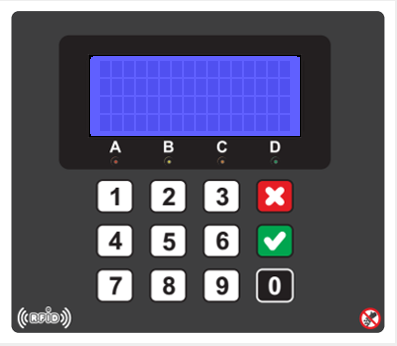
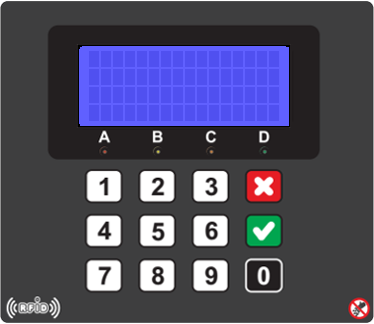
incluindo botões
Só HTML e CSS até o momento

diff --git a/index.html b/index.html
@@ -1,0 +1,26 @@
+<!DOCTYPE html>
+<html lang="pt-br">
+
+<head>
+  <meta charset="UTF-8">
+  <meta http-equiv="X-UA-Compatible" content="IE=edge">
+  <meta name="viewport" content="width=device-width, initial-scale=1.0">
+  <link rel="stylesheet" href="style.css">
+  <title>Simulador Checklist</title>
+</head>
+
+<body>
+  <div class="section-1">
+    <div class="PO"></div>
+    <hr>
+    <div class="preenchimento">
+      <label for="">Texto:</label>
+      <textarea name="texto" id="pergunta" cols="16" rows="4" maxlength="48" required></textarea>
+      <label for="bloqueia">Bloqueia ?</label>
+      <input type="checkbox">
+    </div>
+  </div>
+  <div class="checklist"></div>
+</body>
+
+</html>

diff --git a/style.css b/style.css
@@ -1,0 +1,36 @@
+* {
+  padding: 0;
+  box-sizing: border-box;
+  margin: 0;
+}
+
+:root {
+  font-size: 62.5%;
+  /* 1 REM = 16px*/
+}
+
+html,
+body {
+  font-size: 1.6rem;
+}
+
+.section-1 {
+  margin: 0 auto;
+  width: 55rem;
+}
+
+.PO {
+  margin: 0 auto;
+  width: 37.4rem;
+  height: 32.4rem;
+  background-image: url(image/Simulador.png);
+}
+.section-1 textarea{
+  width: 15rem;
+  height: 8rem;
+  resize: none;
+}
+.preenchimento{
+  display: flex;
+  align-items: center;
+}
